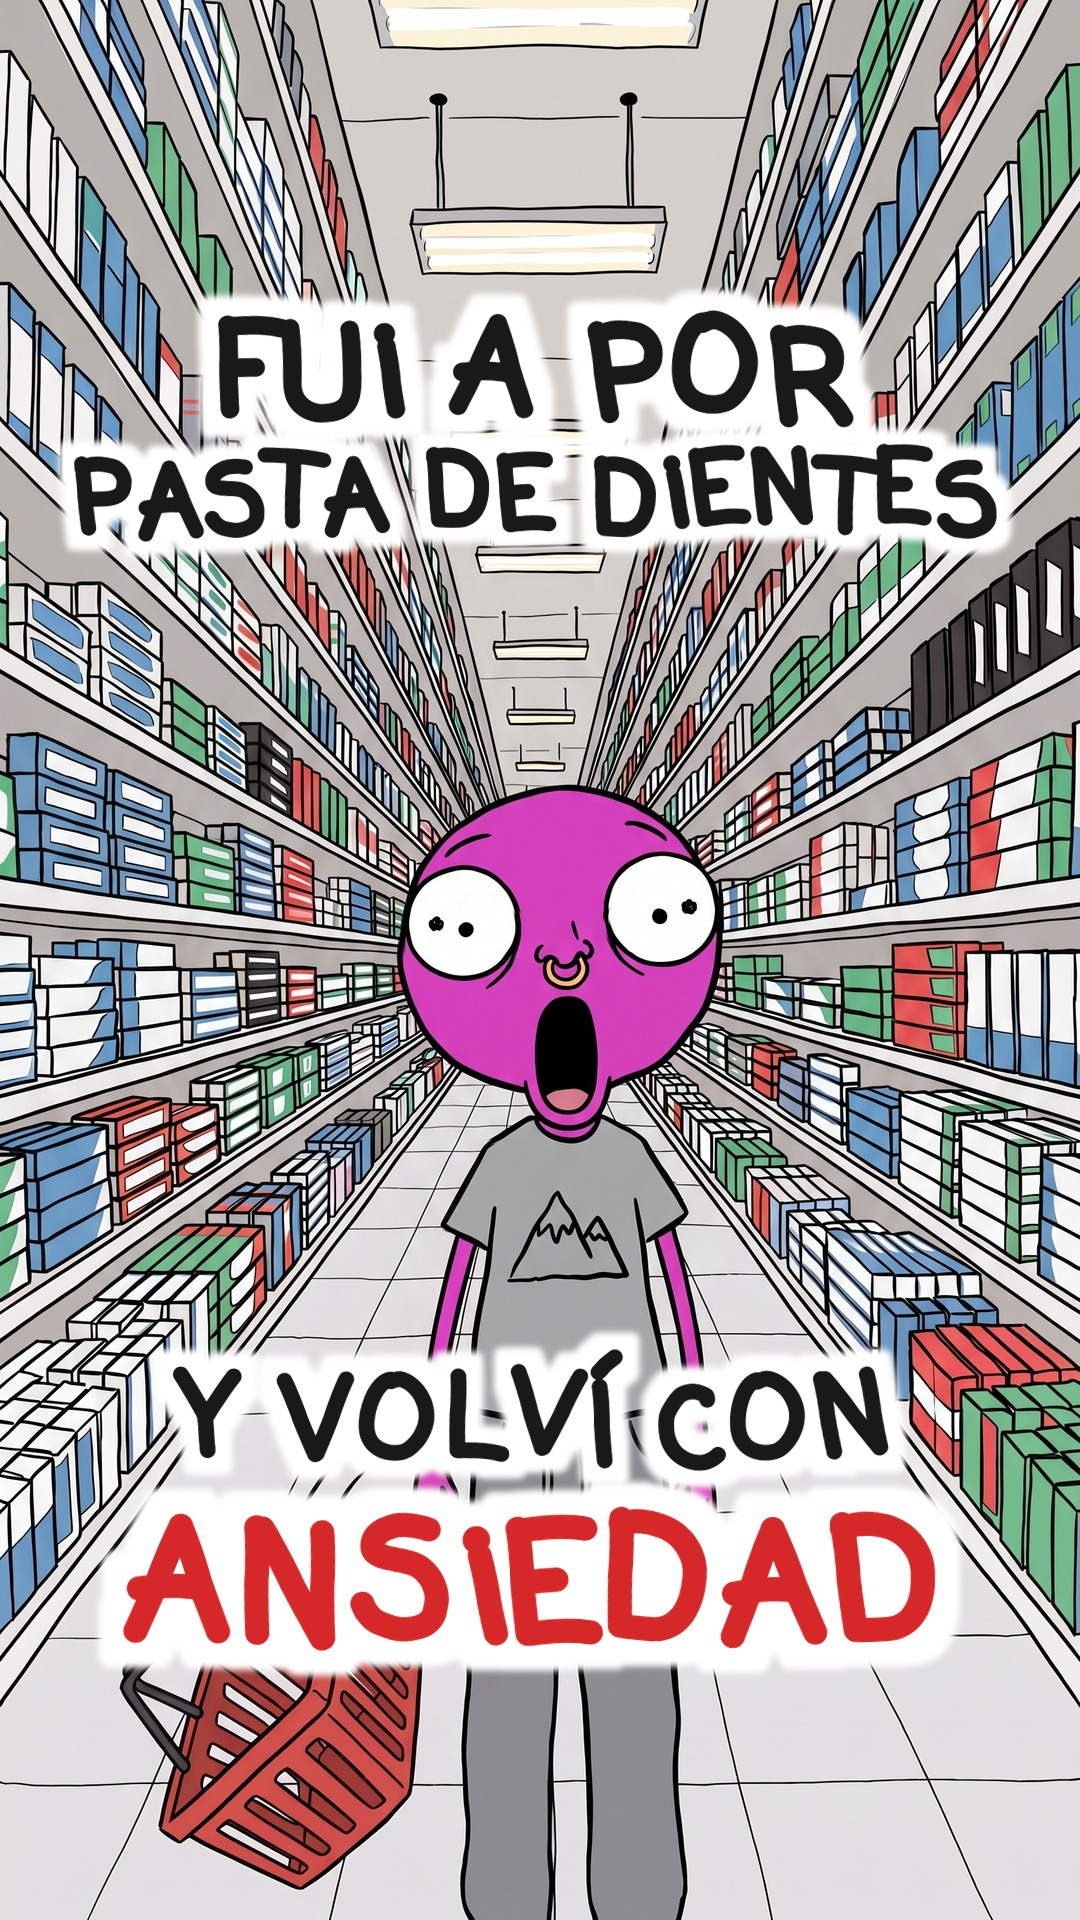
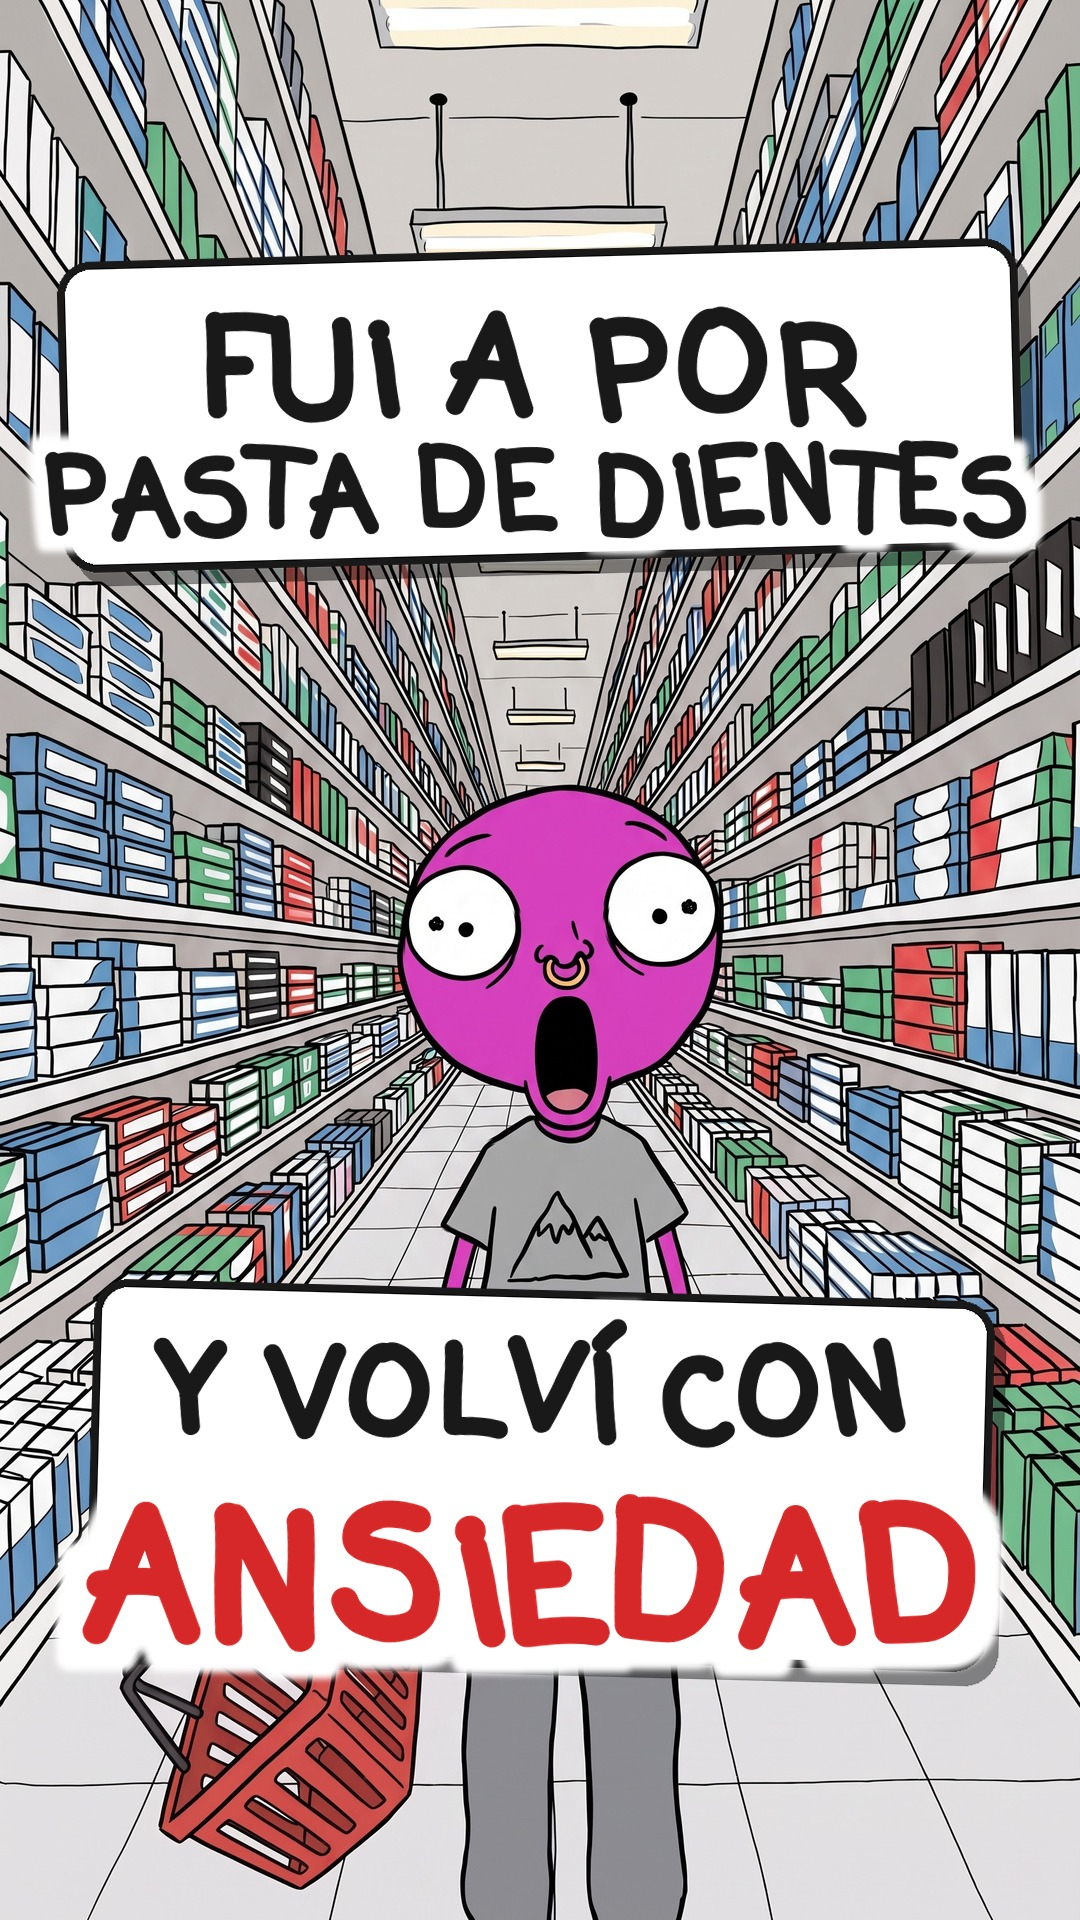
Portada de la pasta de dientes con carteles para que se lea el texto
Claude-Session: https://claude.ai/code/session_01W1d2B3tJHY5s1jRup8PdJX

Changed region(s): [[0.0306, 0.6562, 0.9472, 0.875], [0.0306, 0.125, 0.9778, 0.3125]]

diff --git a/herramientas/video/pasta_dientes/portada.py b/herramientas/video/pasta_dientes/portada.py
@@ -1,15 +1,28 @@
-"""Portada de Instagram del vídeo de la pasta de dientes (1080x1920; texto dentro de la franja 3:4 central)."""
+"""Portada de Instagram del vídeo de la pasta de dientes (1080x1920; texto dentro de la franja 3:4 central).
+El fondo (pasillo) es muy cargado: el texto va sobre carteles blancos con borde para que se lea."""
 import sys, os
 sys.path.insert(0, os.path.join(os.path.dirname(os.path.abspath(__file__)), '..', '..', 'shorts', 'portadas'))
 import portadas as P
-from PIL import Image
+from PIL import Image, ImageDraw, ImageFilter
 im = Image.open('img/es_pasillo_b.jpg').convert('RGB')
 im = im.resize((1080, round(im.height * 1080 / im.width)), Image.LANCZOS)
 y0 = (im.height - 1920) // 2
 im = im.crop((0, y0, 1080, y0 + 1920)).convert('RGBA')
-P.linea(im, 'FUi A POR', 290, 120, 'negro', 3)
-P.linea(im, 'PASTA DE DiENTES', 430, 92, 'negro', 5)
-P.linea(im, 'Y VOLVÍ CON', 1350, 105, 'negro', 7)
-P.linea(im, 'ANSiEDAD', 1480, 150, 'rojo', 9)
+
+def cartel(caja, ang):
+    x0, y0, x1, y1 = caja
+    c = Image.new('RGBA', im.size, (0, 0, 0, 0))
+    d = ImageDraw.Draw(c)
+    d.rounded_rectangle((x0 + 12, y0 + 14, x1 + 12, y1 + 14), radius=34, fill=(0, 0, 0, 110))  # sombra
+    d.rounded_rectangle(caja, radius=34, fill=(255, 255, 255, 255), outline=(25, 25, 25, 255), width=8)
+    c = c.rotate(ang, center=((x0 + x1) / 2, (y0 + y1) / 2), resample=Image.BICUBIC)
+    im.alpha_composite(c)
+
+cartel((60, 250, 1020, 560), 1.5)
+cartel((90, 1290, 990, 1660), -1.5)
+P.linea(im, 'FUi A POR', 285, 125, 'negro', 3)
+P.linea(im, 'PASTA DE DiENTES', 425, 98, 'negro', 5)
+P.linea(im, 'Y VOLVÍ CON', 1320, 110, 'negro', 7)
+P.linea(im, 'ANSiEDAD', 1465, 165, 'rojo', 9)
 P.letras(im)
 im.convert('RGB').save('entrega/Portada-pasta-de-dientes.jpg', quality=92)
